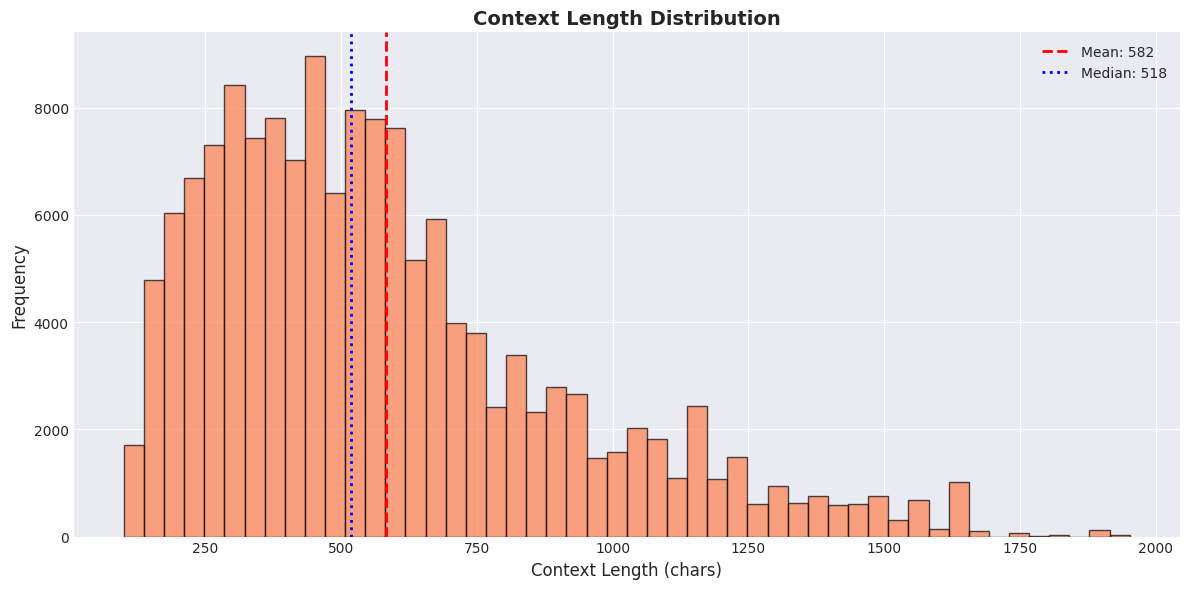
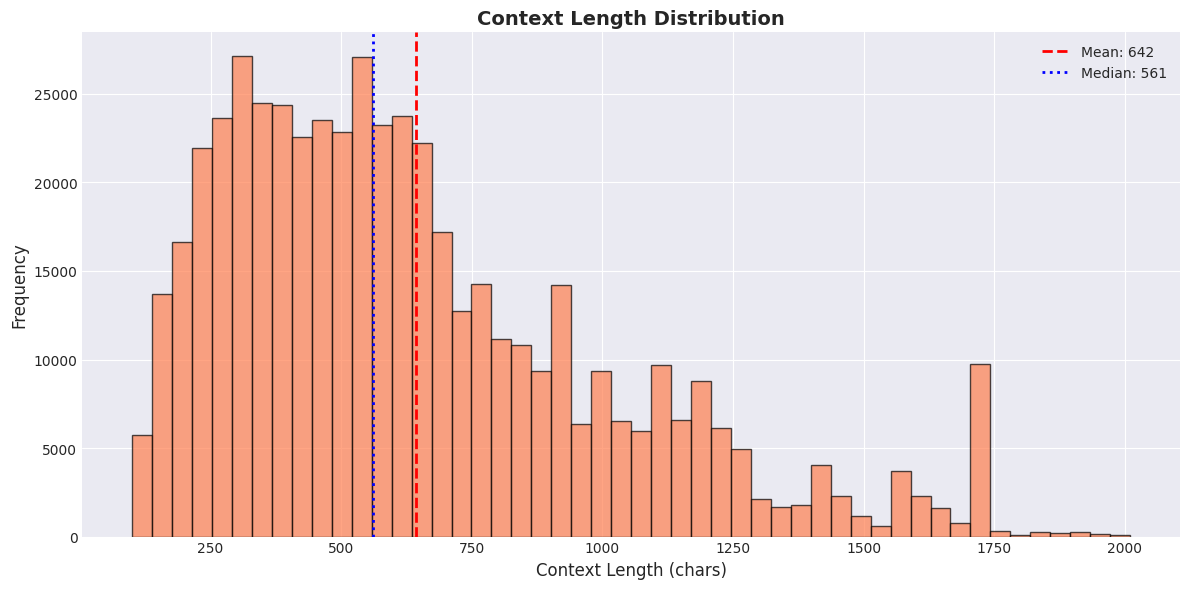
upd musique analysis

diff --git a/musique_analysis/README.md b/musique_analysis/README.md
@@ -14,11 +14,11 @@ Multi-hop question-answering dataset generated from musique_gpt4_batch_gpt_oss u
 
 | Metric | Value |
 |--------|-------|
-| Total Records | 148,664 |
-| Records with QA | 148,664 (100.0%) |
-| Unique Entry IDs | 309 |
-| Unique Pages | 4,433 |
-| Total Triplets | 277,026 |
+| Total Records | 510,101 |
+| Records with QA | 510,101 (100.0%) |
+| Unique Entry IDs | 1,000 |
+| Unique Pages | 9,659 |
+| Total Triplets | 956,154 |
 
 ## Distributions Overview
 
@@ -72,4 +72,4 @@ Multi-hop question-answering dataset generated from musique_gpt4_batch_gpt_oss u
 ```
 
 ---
-*Generated: 2026-03-13 11:26:39*
+*Generated: 2026-03-16 11:25:30*
